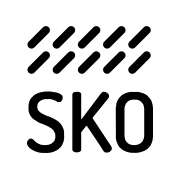
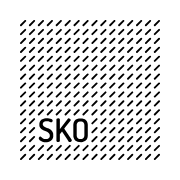
seo + intro

Changed region(s): [[0.1111, 0.1111, 0.8889, 0.8889]]

diff --git a/index.html b/index.html
@@ -1,16 +1,25 @@
 <!doctype html>
-<html lang="en">
+<html lang="bg">
 <head>
 <meta charset="utf-8">
 <meta name="viewport" content="width=device-width, initial-scale=1, viewport-fit=cover">
-<title>Sanya Ko Operations</title>
-<meta name="description" content="Sanya Ko Operations — architecture, graphic and web design. Sofia and Varna, Bulgaria.">
+<base href="/">
+<!-- SEO -->
+<!-- /SEO -->
+<link rel="icon" href="/favicon.svg" type="image/svg+xml">
+<link rel="apple-touch-icon" href="/apple-touch-icon.png">
 <link rel="preconnect" href="https://fonts.googleapis.com">
 <link rel="preconnect" href="https://fonts.gstatic.com" crossorigin>
 <link href="https://fonts.googleapis.com/css2?family=Sofia+Sans:wght@300..800&family=Sofia+Sans+Extra+Condensed:wght@500..800&display=swap" rel="stylesheet">
 <script>
   // Apply saved theme before paint to avoid a flash
   try { const t = localStorage.getItem("sko-theme"); if (t) document.documentElement.dataset.theme = t; } catch(e){}
+  // Intro: only on the home page, only on the first visit, never with reduced motion
+  try {
+    if (!location.pathname.replace(/\/(index(\.html)?)?$/, "") && !location.hash.replace(/^#\/?/, "") &&
+        !localStorage.getItem("sko-intro") &&
+        !matchMedia("(prefers-reduced-motion: reduce)").matches) document.documentElement.classList.add("intro");
+  } catch(e){}
 </script>
 <style>
 :root{
@@ -83,7 +92,7 @@ main{padding:0 var(--pad);min-height:60vh}
 .page-title{margin:0;font-family:var(--display);font-weight:700;font-size:clamp(52px,11vw,168px);line-height:.86;letter-spacing:-.025em;overflow-wrap:anywhere}
 /* Home page: the large logo replaces the "Projects" heading */
 .page-logo{margin:0;line-height:0}
-.page-logo svg{width:clamp(120px,15vw,210px);height:auto;display:block}
+.page-logo svg{width:clamp(96px,12vw,168px);height:auto;display:block}
 .sr-only{position:absolute;width:1px;height:1px;padding:0;margin:-1px;overflow:hidden;clip:rect(0 0 0 0);white-space:nowrap;border:0}
 /* Home page header: the studio name instead of the small logo */
 /* Home page: the small logo keeps its place but stays hidden, so the name never moves between pages */
@@ -237,14 +246,25 @@ body[data-page="home"] .brand-mark{visibility:hidden}
 .foot-cols a:hover{color:var(--muted)}
 .copy{margin-top:32px;font-size:13px;color:var(--muted)}
 
+/* Intro: the footer's dash grid over the whole screen, with the logo set into it on the same grid */
+#intro{display:none}
+.intro #intro{display:block;position:fixed;inset:0;z-index:100;background:var(--paper);color:var(--pattern);cursor:pointer;transition:opacity .4s ease}
+.intro body{overflow:hidden}
+.intro-pattern{position:absolute;inset:0;width:100%;height:100%;opacity:0;transition:opacity .4s ease}
+.intro-mark{position:absolute;line-height:0;color:var(--ink);opacity:0;transition:opacity .4s ease}
+.intro-mark svg{width:100%;height:100%;display:block}
+#intro.show .intro-pattern,#intro.show .intro-mark{opacity:1}
+#intro.out{opacity:0}
+
 @media (prefers-reduced-motion:reduce){*{transition:none!important}}
 </style>
 </head>
 <body>
+<div id="intro" aria-hidden="true"><svg class="intro-pattern" id="introPattern"></svg><span class="intro-mark" id="introMark"></span></div>
 
 <header class="site-header">
   <div class="bar">
-    <a class="brand" href="#/" id="brandLink">
+    <a class="brand" href="/" id="brandLink">
       <span class="brand-mark" id="brandMark"></span>
       <span class="brand-name" id="brandName"></span>
     </a>
@@ -471,6 +491,123 @@ const SITE = {
   ]
 };
 
+/* =========================================================
+   SEO: page titles, descriptions, share image and structured data.
+   build.mjs reads everything from "const SITE" down to SEO:END on every
+   Netlify deploy and writes a separate HTML file per page with these filled in,
+   so keep this block plain JavaScript (no document/window).
+   ========================================================= */
+const ORIGIN = "https://sko.one";
+const SEO = {
+  image: "/images/og.png",
+  founder: { name: "Саня Ковачева", alternateName: ["Sanya Kovacheva"], jobTitle: { bg: "Архитект", en: "Architect" } },
+  studioNames: ["SKO", "СКО", "SKO студио", "Студио SKO"],
+  home: {
+    bg: { title: "Саня Ковачева – архитект | SKO Sanya Ko Operations",
+          description: "SKO (Sanya Ko Operations, СКО) е студиото на архитект Саня Ковачева – архитектура, интериор, ландшафт, продуктов и графичен дизайн. София и Варна." },
+    en: { title: "Sanya Kovacheva – architect | SKO Sanya Ko Operations",
+          description: "SKO (Sanya Ko Operations) is the studio of architect Sanya Kovacheva – architecture, interiors, landscape, product and graphic design. Sofia and Varna, Bulgaria." },
+    h1: { bg: "SKO – Sanya Ko Operations, студио на архитект Саня Ковачева", en: "SKO – Sanya Ko Operations, studio of architect Sanya Kovacheva" }
+  },
+  pages: {
+    about: {
+      bg: { title: "За SKO – архитект Саня Ковачева | Sanya Ko Operations",
+            description: "Саня Ковачева е архитект и основател на студио SKO (Sanya Ko Operations) – инвестиционно проектиране, продуктов дизайн и визуална идентичност." },
+      en: { title: "About SKO – architect Sanya Kovacheva | Sanya Ko Operations",
+            description: "Sanya Kovacheva is an architect and the founder of SKO (Sanya Ko Operations) – investment design, product design and visual identity." } },
+    architecture: {
+      bg: { title: "Архитектура – SKO студио, архитект Саня Ковачева",
+            description: "Архитектурни, интериорни и ландшафтни проекти на SKO студио и архитект Саня Ковачева в София, Варна и чужбина." },
+      en: { title: "Architecture – SKO studio, architect Sanya Kovacheva",
+            description: "Architecture, interior and landscape projects by SKO studio and architect Sanya Kovacheva." } },
+    design: {
+      bg: { title: "Дизайн – SKO студио | Sanya Ko Operations",
+            description: "Графичен, уеб и продуктов дизайн от SKO (Sanya Ko Operations) – лога, визуална идентичност и уебсайтове." },
+      en: { title: "Design – SKO studio | Sanya Ko Operations",
+            description: "Graphic, web and product design by SKO (Sanya Ko Operations) – logos, visual identity and websites." } },
+    contacts: {
+      bg: { title: "Контакти – SKO студио, София | Sanya Ko Operations",
+            description: "Свържете се със SKO (Sanya Ko Operations) и архитект Саня Ковачева: бул. „Цар Борис III“ 171, София." },
+      en: { title: "Contacts – SKO studio, Sofia | Sanya Ko Operations",
+            description: "Get in touch with SKO (Sanya Ko Operations) and architect Sanya Kovacheva: 171 Tsar Boris III Blvd, Sofia." } }
+  },
+  projectSuffix: { bg: "SKO, Саня Ковачева", en: "SKO, Sanya Kovacheva" },
+  notFound: { bg: "Страницата не е намерена | SKO", en: "Page not found | SKO" }
+};
+
+/* Everything a page needs in its <head>, for a path such as "/", "/about" or "/project/fluxveil" */
+function seoFor(path, lang = "bg"){
+  const pick = v => (v && typeof v === "object" && !Array.isArray(v) && ("en" in v || "bg" in v)) ? (v[lang] ?? v.en) : v;
+  const plain = s => String(s || "").replace(/\[([^\]]+)\]\([^)]+\)/g, "$1").replace(/\s+/g, " ").trim();
+  const clip = s => s.length > 160 ? s.slice(0, 157).replace(/[\s,.;:–-]+[^\s]*$/, "") + "…" : s;
+  const abs = u => u ? ORIGIN + "/" + String(u).replace(/^\/+/, "") : "";
+  const [page = "", arg = ""] = String(path).replace(/\.html$/, "").replace(/\/index$/, "").replace(/^\/+|\/+$/g, "").split("/");
+
+  const addr = (SITE.contacts.address.bg || "").split(/,\s*(?=[^,]+$)/);
+  const studio = {
+    "@type": "ProfessionalService", "@id": ORIGIN + "/#studio",
+    name: SITE.name, alternateName: SEO.studioNames, url: ORIGIN + "/",
+    description: SEO.home.bg.description,
+    logo: abs("images/logo-512.png"), image: abs(SEO.image),
+    email: SITE.contacts.email, telephone: SITE.contacts.phone.replace(/\s/g, ""),
+    address: { "@type": "PostalAddress", streetAddress: addr[0], addressLocality: addr[1] || "София", addressCountry: "BG" },
+    areaServed: "BG", foundingDate: "2018",
+    founder: { "@id": ORIGIN + "/#founder" },
+    sameAs: SITE.social.map(s => s.url)
+  };
+  const founder = {
+    "@type": "Person", "@id": ORIGIN + "/#founder",
+    name: SEO.founder.name, alternateName: SEO.founder.alternateName, jobTitle: pick(SEO.founder.jobTitle),
+    url: ORIGIN + "/about", image: abs(SITE.about.portrait),
+    worksFor: { "@id": ORIGIN + "/#studio" },
+    sameAs: SITE.social.filter(s => /linkedin/i.test(s.url)).map(s => s.url)
+  };
+  const website = { "@type": "WebSite", "@id": ORIGIN + "/#website", url: ORIGIN + "/", name: SITE.name, alternateName: SEO.studioNames, inLanguage: "bg", publisher: { "@id": ORIGIN + "/#studio" } };
+
+  let m, p;
+  if (!page) m = { ...pick(SEO.home), path: "/" };
+  else if (SEO.pages[page]) m = { ...pick(SEO.pages[page]), path: "/" + page };
+  else if (page === "project" && (p = SITE.projects.find(x => x.slug === arg))) {
+    const cats = p.categories.map(c => pick(SITE.categories[c]) || c).join(", ");
+    const loc = pick(p.location) || "";
+    const fallback = lang === "bg"
+      ? `${p.title} – ${cats.toLowerCase()}${loc ? ", " + loc : ""}${p.year ? ", " + p.year + " г" : ""}. Проект на SKO студио и архитект Саня Ковачева.`
+      : `${p.title} – ${cats.toLowerCase()}${loc ? ", " + loc : ""}${p.year ? ", " + p.year : ""}. A project by SKO studio and architect Sanya Kovacheva.`;
+    const image = p.cover || p.thumb || (p.gallery || [])[0];
+    m = { title: `${p.title} – ${cats} | ${pick(SEO.projectSuffix)}`,
+          description: clip(plain((pick(p.description) || [])[0]) || fallback),
+          path: "/project/" + p.slug, image,
+          work: { "@type": "CreativeWork", "@id": ORIGIN + "/project/" + p.slug + "#work", name: p.title, url: ORIGIN + "/project/" + p.slug,
+                  genre: cats, image: image ? abs(image) : undefined, dateCreated: p.year || undefined,
+                  locationCreated: loc ? { "@type": "Place", name: loc } : undefined,
+                  creator: { "@id": ORIGIN + "/#studio" }, author: { "@id": ORIGIN + "/#founder" } } };
+  }
+  else return { title: pick(SEO.notFound), description: "", url: "", image: abs(SEO.image), noindex: true, lang };
+
+  return { title: m.title, description: m.description, url: ORIGIN + m.path, image: abs(m.image || SEO.image), lang,
+           jsonld: { "@context": "https://schema.org", "@graph": [website, studio, founder, ...(m.work ? [m.work] : [])] } };
+}
+
+/* The <head> tags for one page (they go between the two SEO comments in <head>) */
+function seoHead(m){
+  const e = s => String(s ?? "").replace(/[&<>"]/g, c => ({ "&": "&amp;", "<": "&lt;", ">": "&gt;", '"': "&quot;" }[c]));
+  return [
+    `<title>${e(m.title)}</title>`,
+    m.description && `<meta name="description" content="${e(m.description)}">`,
+    m.noindex ? `<meta name="robots" content="noindex">` : `<link rel="canonical" href="${e(m.url)}">`,
+    `<meta property="og:type" content="website">`,
+    `<meta property="og:site_name" content="${e(SITE.name)}">`,
+    `<meta property="og:locale" content="${m.lang === "en" ? "en_US" : "bg_BG"}">`,
+    `<meta property="og:title" content="${e(m.title)}">`,
+    m.description && `<meta property="og:description" content="${e(m.description)}">`,
+    m.url && `<meta property="og:url" content="${e(m.url)}">`,
+    `<meta property="og:image" content="${e(m.image)}">`,
+    `<meta name="twitter:card" content="summary_large_image">`,
+    m.jsonld && `<script type="application/ld+json">${JSON.stringify(m.jsonld).replace(/</g, "\\u003c")}<\/script>`
+  ].filter(Boolean).join("\n");
+}
+/* SEO:END */
+
 /* SKO logo, vectorized; uses currentColor so it follows light/dark mode */
 const LOGO = `<svg xmlns="http://www.w3.org/2000/svg" viewBox="0 0 635 635"><path d="M4.2 23.8l19.6-19.6M44.7 23.8l19.6-19.6M85.1 23.8l19.6-19.6M125.6 23.8l19.6-19.6M166.1 23.8l19.6-19.6M206.5 23.8l19.6-19.6M247.0 23.8l19.6-19.6M287.5 23.8l19.6-19.6M328.0 23.8l19.6-19.6M368.4 23.8l19.6-19.6M408.9 23.8l19.6-19.6M449.4 23.8l19.6-19.6M489.8 23.8l19.6-19.6M530.3 23.8l19.6-19.6M570.8 23.8l19.6-19.6M611.2 23.8l19.6-19.6M4.2 64.3l19.6-19.6M44.7 64.3l19.6-19.6M85.1 64.3l19.6-19.6M125.6 64.3l19.6-19.6M166.1 64.3l19.6-19.6M206.5 64.3l19.6-19.6M247.0 64.3l19.6-19.6M287.5 64.3l19.6-19.6M328.0 64.3l19.6-19.6M368.4 64.3l19.6-19.6M408.9 64.3l19.6-19.6M449.4 64.3l19.6-19.6M489.8 64.3l19.6-19.6M530.3 64.3l19.6-19.6M570.8 64.3l19.6-19.6M611.2 64.3l19.6-19.6M4.2 104.7l19.6-19.6M44.7 104.7l19.6-19.6M85.1 104.7l19.6-19.6M125.6 104.7l19.6-19.6M166.1 104.7l19.6-19.6M206.5 104.7l19.6-19.6M247.0 104.7l19.6-19.6M287.5 104.7l19.6-19.6M328.0 104.7l19.6-19.6M368.4 104.7l19.6-19.6M408.9 104.7l19.6-19.6M449.4 104.7l19.6-19.6M489.8 104.7l19.6-19.6M530.3 104.7l19.6-19.6M570.8 104.7l19.6-19.6M611.2 104.7l19.6-19.6M4.2 145.2l19.6-19.6M44.7 145.2l19.6-19.6M85.1 145.2l19.6-19.6M125.6 145.2l19.6-19.6M166.1 145.2l19.6-19.6M206.5 145.2l19.6-19.6M247.0 145.2l19.6-19.6M287.5 145.2l19.6-19.6M328.0 145.2l19.6-19.6M368.4 145.2l19.6-19.6M408.9 145.2l19.6-19.6M449.4 145.2l19.6-19.6M489.8 145.2l19.6-19.6M530.3 145.2l19.6-19.6M570.8 145.2l19.6-19.6M611.2 145.2l19.6-19.6M4.2 185.7l19.6-19.6M44.7 185.7l19.6-19.6M85.1 185.7l19.6-19.6M125.6 185.7l19.6-19.6M166.1 185.7l19.6-19.6M206.5 185.7l19.6-19.6M247.0 185.7l19.6-19.6M287.5 185.7l19.6-19.6M328.0 185.7l19.6-19.6M368.4 185.7l19.6-19.6M408.9 185.7l19.6-19.6M449.4 185.7l19.6-19.6M489.8 185.7l19.6-19.6M530.3 185.7l19.6-19.6M570.8 185.7l19.6-19.6M611.2 185.7l19.6-19.6M4.2 226.2l19.6-19.6M44.7 226.2l19.6-19.6M85.1 226.2l19.6-19.6M125.6 226.2l19.6-19.6M166.1 226.2l19.6-19.6M206.5 226.2l19.6-19.6M247.0 226.2l19.6-19.6M287.5 226.2l19.6-19.6M328.0 226.2l19.6-19.6M368.4 226.2l19.6-19.6M408.9 226.2l19.6-19.6M449.4 226.2l19.6-19.6M489.8 226.2l19.6-19.6M530.3 226.2l19.6-19.6M570.8 226.2l19.6-19.6M611.2 226.2l19.6-19.6M4.2 266.6l19.6-19.6M44.7 266.6l19.6-19.6M85.1 266.6l19.6-19.6M125.6 266.6l19.6-19.6M166.1 266.6l19.6-19.6M206.5 266.6l19.6-19.6M247.0 266.6l19.6-19.6M287.5 266.6l19.6-19.6M328.0 266.6l19.6-19.6M368.4 266.6l19.6-19.6M408.9 266.6l19.6-19.6M449.4 266.6l19.6-19.6M489.8 266.6l19.6-19.6M530.3 266.6l19.6-19.6M570.8 266.6l19.6-19.6M611.2 266.6l19.6-19.6M4.2 307.1l19.6-19.6M44.7 307.1l19.6-19.6M85.1 307.1l19.6-19.6M125.6 307.1l19.6-19.6M166.1 307.1l19.6-19.6M206.5 307.1l19.6-19.6M247.0 307.1l19.6-19.6M287.5 307.1l19.6-19.6M328.0 307.1l19.6-19.6M368.4 307.1l19.6-19.6M408.9 307.1l19.6-19.6M449.4 307.1l19.6-19.6M489.8 307.1l19.6-19.6M530.3 307.1l19.6-19.6M570.8 307.1l19.6-19.6M611.2 307.1l19.6-19.6M4.2 347.6l19.6-19.6M44.7 347.6l19.6-19.6M85.1 347.6l19.6-19.6M125.6 347.6l19.6-19.6M166.1 347.6l19.6-19.6M206.5 347.6l19.6-19.6M247.0 347.6l19.6-19.6M287.5 347.6l19.6-19.6M328.0 347.6l19.6-19.6M368.4 347.6l19.6-19.6M408.9 347.6l19.6-19.6M449.4 347.6l19.6-19.6M489.8 347.6l19.6-19.6M530.3 347.6l19.6-19.6M570.8 347.6l19.6-19.6M611.2 347.6l19.6-19.6M4.2 388.0l19.6-19.6M44.7 388.0l19.6-19.6M85.1 388.0l19.6-19.6M125.6 388.0l19.6-19.6M166.1 388.0l19.6-19.6M206.5 388.0l19.6-19.6M247.0 388.0l19.6-19.6M287.5 388.0l19.6-19.6M328.0 388.0l19.6-19.6M368.4 388.0l19.6-19.6M408.9 388.0l19.6-19.6M449.4 388.0l19.6-19.6M489.8 388.0l19.6-19.6M530.3 388.0l19.6-19.6M570.8 388.0l19.6-19.6M611.2 388.0l19.6-19.6M4.2 428.5l19.6-19.6M44.7 428.5l19.6-19.6M85.1 428.5l19.6-19.6M125.6 428.5l19.6-19.6M166.1 428.5l19.6-19.6M206.5 428.5l19.6-19.6M247.0 428.5l19.6-19.6M287.5 428.5l19.6-19.6M328.0 428.5l19.6-19.6M368.4 428.5l19.6-19.6M408.9 428.5l19.6-19.6M449.4 428.5l19.6-19.6M489.8 428.5l19.6-19.6M530.3 428.5l19.6-19.6M570.8 428.5l19.6-19.6M611.2 428.5l19.6-19.6M4.2 469.0l19.6-19.6M44.7 469.0l19.6-19.6M328.0 469.0l19.6-19.6M368.4 469.0l19.6-19.6M408.9 469.0l19.6-19.6M449.4 469.0l19.6-19.6M489.8 469.0l19.6-19.6M530.3 469.0l19.6-19.6M570.8 469.0l19.6-19.6M611.2 469.0l19.6-19.6M4.2 509.4l19.6-19.6M44.7 509.4l19.6-19.6M328.0 509.4l19.6-19.6M368.4 509.4l19.6-19.6M408.9 509.4l19.6-19.6M449.4 509.4l19.6-19.6M489.8 509.4l19.6-19.6M530.3 509.4l19.6-19.6M570.8 509.4l19.6-19.6M611.2 509.4l19.6-19.6M4.2 549.9l19.6-19.6M44.7 549.9l19.6-19.6M328.0 549.9l19.6-19.6M368.4 549.9l19.6-19.6M408.9 549.9l19.6-19.6M449.4 549.9l19.6-19.6M489.8 549.9l19.6-19.6M530.3 549.9l19.6-19.6M570.8 549.9l19.6-19.6M611.2 549.9l19.6-19.6M4.2 590.4l19.6-19.6M44.7 590.4l19.6-19.6M85.1 590.4l19.6-19.6M125.6 590.4l19.6-19.6M166.1 590.4l19.6-19.6M206.5 590.4l19.6-19.6M247.0 590.4l19.6-19.6M287.5 590.4l19.6-19.6M328.0 590.4l19.6-19.6M368.4 590.4l19.6-19.6M408.9 590.4l19.6-19.6M449.4 590.4l19.6-19.6M489.8 590.4l19.6-19.6M530.3 590.4l19.6-19.6M570.8 590.4l19.6-19.6M611.2 590.4l19.6-19.6M4.2 630.8l19.6-19.6M44.7 630.8l19.6-19.6M85.1 630.8l19.6-19.6M125.6 630.8l19.6-19.6M166.1 630.8l19.6-19.6M206.5 630.8l19.6-19.6M247.0 630.8l19.6-19.6M287.5 630.8l19.6-19.6M328.0 630.8l19.6-19.6M368.4 630.8l19.6-19.6M408.9 630.8l19.6-19.6M449.4 630.8l19.6-19.6M489.8 630.8l19.6-19.6M530.3 630.8l19.6-19.6M570.8 630.8l19.6-19.6M611.2 630.8l19.6-19.6" fill="none" stroke="currentColor" stroke-width="8.4" stroke-linecap="round"/><path d="M266.8 446.5 L259.2 448.5 L253.5 451.5 L251.0 453.5 L247.8 457.0 L245.0 461.2 L243.0 466.8 L241.8 475.5 L242.0 528.2 L243.0 533.5 L246.2 541.0 L248.0 543.5 L251.8 547.2 L254.5 549.2 L261.2 552.2 L268.2 553.8 L278.0 554.0 L284.0 553.2 L292.2 550.5 L298.0 546.8 L301.8 542.8 L303.8 539.8 L305.8 535.0 L306.8 531.2 L307.5 525.2 L307.5 474.8 L306.8 469.0 L304.8 462.5 L302.5 458.5 L297.0 452.5 L294.0 450.5 L290.2 448.8 L282.0 446.5ZM271.5 460.0 L279.5 460.2 L282.5 461.2 L286.0 463.2 L290.0 468.0 L291.0 470.5 L292.0 476.0 L292.0 524.2 L291.0 529.5 L288.8 534.0 L286.0 536.8 L281.5 539.2 L277.0 540.2 L271.8 540.2 L268.0 539.5 L265.5 538.5 L263.0 536.8 L260.8 534.5 L258.8 531.5 L257.2 525.0 L257.2 475.2 L257.8 471.8 L259.8 467.0 L263.5 463.0 L266.5 461.2ZM166.8 447.8 L165.2 450.2 L165.2 548.8 L166.0 550.5 L167.5 551.8 L169.8 552.8 L173.8 553.2 L178.0 552.2 L180.8 549.8 L180.8 517.8 L188.8 507.5 L190.5 506.0 L214.0 541.0 L220.2 551.0 L222.2 552.8 L224.5 553.5 L228.8 553.2 L231.2 552.0 L233.5 550.0 L234.8 547.8 L234.8 544.8 L233.8 542.5 L201.0 493.0 L201.5 491.2 L228.8 457.5 L229.8 455.8 L230.0 454.2 L229.8 452.2 L228.8 450.2 L227.0 448.5 L223.8 446.5 L219.5 446.2 L217.8 447.0 L215.2 449.8 L181.2 494.8 L180.8 494.2 L180.8 449.2 L179.2 447.5 L175.5 446.2 L169.2 446.5ZM117.0 445.8 L110.5 446.8 L104.5 448.5 L98.2 451.8 L92.8 457.0 L90.0 461.2 L88.0 468.2 L87.8 476.2 L88.2 480.8 L89.0 483.8 L91.0 488.0 L93.5 491.5 L96.5 494.5 L105.5 500.2 L120.2 506.2 L124.5 508.5 L128.8 511.2 L132.0 514.5 L135.0 520.2 L135.2 527.2 L134.0 531.8 L132.2 534.2 L128.5 537.5 L124.0 539.5 L119.8 540.2 L114.0 540.2 L109.2 539.5 L107.5 538.5 L106.5 538.5 L101.5 535.5 L95.0 529.5 L93.2 528.8 L90.5 528.8 L88.8 529.8 L86.0 533.0 L85.2 535.0 L85.2 538.8 L87.5 543.0 L90.8 546.2 L93.5 548.2 L99.5 551.2 L104.8 553.0 L110.2 554.0 L122.0 554.2 L128.5 553.2 L134.2 551.2 L140.0 548.0 L144.8 543.5 L146.8 540.8 L149.8 533.8 L150.8 528.5 L150.5 516.0 L149.8 512.5 L147.2 506.8 L144.8 503.0 L141.0 499.2 L136.2 495.8 L132.2 493.5 L131.5 493.5 L130.2 492.5 L129.5 492.5 L128.2 491.5 L125.0 490.5 L123.5 489.5 L122.5 489.5 L117.5 487.5 L111.0 484.2 L108.8 482.8 L105.0 479.0 L103.8 476.2 L103.2 473.5 L103.8 468.2 L104.8 466.0 L107.8 462.8 L111.8 460.5 L116.5 459.2 L124.5 459.0 L128.8 459.5 L136.0 462.2 L139.2 464.2 L144.2 464.2 L146.5 462.0 L147.8 459.5 L148.2 455.0 L146.8 452.2 L143.0 449.5 L137.5 447.5 L126.5 445.8Z" fill="currentColor" fill-rule="evenodd"/></svg>`;
 
@@ -493,7 +630,7 @@ const store = {
   get(k){ try { return localStorage.getItem(k); } catch(e){ return null; } },
   set(k,v){ try { localStorage.setItem(k,v); } catch(e){} }
 };
-let lang = store.get("sko-lang") === "bg" ? "bg" : "en";
+let lang = store.get("sko-lang") === "en" ? "en" : "bg";
 const T = k => UI[lang][k];
 const L = v => (v && typeof v === "object" && !Array.isArray(v) && ("en" in v || "bg" in v)) ? (v[lang] ?? v.en) : v;
 const cat = c => L(SITE.categories[c]) || c;
@@ -518,7 +655,7 @@ function contextList(ctx){
   const c = Object.keys(SITE.categories).find(k => slugify(k) === ctx);
   return c ? SITE.projects.filter(p => p.categories.includes(c)) : SITE.projects;
 }
-const projectHref = (slug, ctx) => `#/project/${esc(slug)}${ctx ? "/" + esc(ctx) : ""}`;
+const projectHref = (slug, ctx) => `/project/${esc(slug)}${ctx ? "?in=" + esc(ctx) : ""}`;
 
 function card(p, ctx){
   return `<li class="card"><a href="${projectHref(p.slug, ctx)}">
@@ -538,7 +675,7 @@ function listingPage(title, list, ctx){
        </div>` : "";
   return `
     <div class="page-head">
-      ${title ? `<h1 class="page-title">${esc(title)}</h1>` : `<h1 class="page-logo"><span class="sr-only">${esc(SITE.name)}</span>${LOGO}</h1>`}
+      ${title ? `<h1 class="page-title">${esc(title)}</h1>` : `<h1 class="page-logo"><span class="sr-only">${esc(L(SEO.home.h1))}</span>${LOGO}</h1>`}
       ${filters}
     </div>
     <ul class="grid" id="grid">${list.map(p => card(p, ctx)).join("")}</ul>`;
@@ -640,7 +777,7 @@ function projectPage(slug, ctx){
   let list = contextList(ctx);
   if (!list.some(p => p.slug === slug)) { list = SITE.projects; ctx = ""; }
   const i = list.findIndex(p => p.slug === slug);
-  if (i < 0) return `<p class="empty">${T("notFoundProject")} <a href="#/"><u>${T("seeAll")}</u></a></p>`;
+  if (i < 0) return `<p class="empty">${T("notFoundProject")} <a href="/"><u>${T("seeAll")}</u></a></p>`;
   const p = list[i];
   const n = list.length;
   const prev = i > 0 ? list[i - 1] : null;      // first project: no "previous"
@@ -697,8 +834,10 @@ const navLabel = route => L((SITE.nav.find(n => n.route === route) || {}).label)
 
 function render(keepScroll){
   // Old "graphic-design" links now point to the Design section
-  if (/graphic-design/.test(location.hash)) { location.replace(location.hash.replace("graphic-design", "design")); return; }
-  const [page, arg, ctx] = (location.hash.replace(/^#\/?/, "") || "").split("/");
+  if (/graphic-design/.test(location.pathname + location.search))
+    history.replaceState(null, "", (location.pathname + location.search).replace("graphic-design", "design"));
+  const [page = "", arg = ""] = routePath().split("/");
+  const ctx = new URLSearchParams(location.search).get("in") || "";
   const app = $("#app");
   let html, after;
 
@@ -710,7 +849,7 @@ function render(keepScroll){
   else if (page === "project") { html = projectPage(arg, ctx); after = bindStrip; }
   else if (page === "about") html = aboutPage();
   else if (page === "contacts") html = contactsPage();
-  else html = `<p class="empty">${T("notFoundPage")} <a href="#/"><u>${T("seeAll")}</u></a></p>`;
+  else html = `<p class="empty">${T("notFoundPage")} <a href="/"><u>${T("seeAll")}</u></a></p>`;
 
   document.body.dataset.page = page || "home";
   app.innerHTML = html;
@@ -720,8 +859,7 @@ function render(keepScroll){
     const active = page === "project" && SITE.sections[ctx] && contextList(ctx).some(p => p.slug === arg) ? ctx : page;
     if (a.dataset.route === active) a.setAttribute("aria-current","page"); else a.removeAttribute("aria-current");
   });
-  const t = page === "project" ? (SITE.projects.find(p=>p.slug===arg)||{}).title : navLabel(page);
-  document.title = t ? `${t} — ${SITE.name}` : SITE.name;
+  applySeo();
   closeMenu();
   if (!keepScroll) window.scrollTo(0,0);
 }
@@ -733,8 +871,8 @@ function chrome(){
   $("#brandName").textContent = SITE.name;
   $("#brandLink").setAttribute("aria-label", T("home"));
   $("#nav").setAttribute("aria-label", T("main"));
-  $("#nav").innerHTML = SITE.nav.map(n => `<a href="#/${esc(n.route)}" data-route="${esc(n.route)}">${esc(L(n.label))}</a>`).join("");
-  $("#footPages").innerHTML = SITE.nav.map(n => `<li><a href="#/${esc(n.route)}">${esc(L(n.label))}</a></li>`).join("");
+  $("#nav").innerHTML = SITE.nav.map(n => `<a href="/${esc(n.route)}" data-route="${esc(n.route)}">${esc(L(n.label))}</a>`).join("");
+  $("#footPages").innerHTML = SITE.nav.map(n => `<li><a href="/${esc(n.route)}">${esc(L(n.label))}</a></li>`).join("");
   $("#footSocial").innerHTML = SITE.social.map(s => `<li><a href="${esc(s.url)}" target="_blank" rel="noopener">${esc(s.label)}</a></li>`).join("");
   $("#footLocation").innerHTML = L(SITE.location).map(esc).join("<br>");
   $("#hLocation").textContent = T("location");
@@ -798,7 +936,7 @@ function drawFooterPattern(){
   const blocks = [...foot.querySelectorAll(".foot-cols > div, .copy")];
   blocks.forEach(el => el.style.transform = "");
   const W = foot.clientWidth, H = foot.clientHeight;
-  const P = W < 600 ? 12 : 14, k = P / 40.47, d = 19.6 * k, sw = 8.4 * k, o = 4.2 * k;
+  const P = W < 600 ? 9.6 : 11.2, k = P / 40.47, d = 19.6 * k, sw = 8.4 * k, o = 4.2 * k;
   const fr = foot.getBoundingClientRect(), gap = P * 0.9;
   // grid centred in the footer so the outer margins are even
   const ox = (W - (Math.floor((W - 2 * o) / P) * P + d)) / 2 - o, oy = (H - (Math.floor((H - 2 * o) / P) * P + d)) / 2 - o;
@@ -839,9 +977,84 @@ function drawFooterPattern(){
 if (window.ResizeObserver) new ResizeObserver(drawFooterPattern).observe(document.querySelector(".site-footer"));
 document.fonts && document.fonts.ready.then(drawFooterPattern);
 
+/* Intro: the logo is drawn at the pattern's scale and placed on its grid, so its dashes
+   continue the pattern in a darker colour */
+function drawIntro(){
+  const box = $("#intro"), svg = $("#introPattern"), mark = $("#introMark");
+  const W = box.clientWidth, H = box.clientHeight;
+  // same size as the large logo on the home page: clamp(96px, 12vw, 168px)
+  const S = Math.min(168, Math.max(96, innerWidth * 0.12)), k = S / 635, P = 40.47 * k;
+  const d = 19.6 * k, sw = 8.4 * k, o = 4.2 * k;
+  const Lx = (W - S) / 2, Ly = (H - S) / 2;
+  const ox = Lx - Math.ceil(Lx / P) * P, oy = Ly - Math.ceil(Ly / P) * P;
+  const c0 = Math.round((Lx - ox) / P), r0 = Math.round((Ly - oy) / P);
+  const cols = Math.ceil((W - ox) / P) + 1, rows = Math.ceil((H - oy) / P) + 1;
+  let path = "";
+  for (let r = 0; r < rows; r++) for (let c = 0; c < cols; c++) {
+    if (c >= c0 && c < c0 + 16 && r >= r0 && r < r0 + 16) continue;
+    const x = ox + c * P + o, y = oy + r * P + o;
+    if (x < 0 || y < 0 || x + d > W || y + d > H) continue;
+    path += `M${x.toFixed(1)} ${(y + d).toFixed(1)}l${d.toFixed(1)}-${d.toFixed(1)}`;
+  }
+  svg.setAttribute("viewBox", `0 0 ${W} ${H}`);
+  svg.innerHTML = `<path d="${path}" fill="none" stroke="currentColor" stroke-width="${sw.toFixed(2)}" stroke-linecap="round"/>`;
+  if (!mark.firstChild) mark.innerHTML = LOGO;
+  Object.assign(mark.style, { left: `${ox + c0 * P}px`, top: `${oy + r0 * P}px`, width: `${S}px`, height: `${S}px` });
+}
+function runIntro(){
+  const root = document.documentElement, box = $("#intro");
+  if (!root.classList.contains("intro")) { box.remove(); return; }
+  store.set("sko-intro", "1");
+  drawIntro();
+  addEventListener("resize", drawIntro);
+  requestAnimationFrame(() => requestAnimationFrame(() => box.classList.add("show")));
+  let done = false;
+  const end = () => {
+    if (done) return; done = true;
+    box.classList.add("out");
+    setTimeout(() => { root.classList.remove("intro"); box.remove(); removeEventListener("resize", drawIntro); }, 400);
+  };
+  const timer = setTimeout(end, 1600);   // 0.4 s fade in + 1.2 s hold + 0.4 s fade out = 2 s
+  box.addEventListener("click", () => { clearTimeout(timer); end(); });
+  addEventListener("keydown", () => { clearTimeout(timer); end(); }, { once: true });
+}
+
+/* ============================ routing ============================
+   Every page has its own address (sko.one/about, sko.one/project/fluxveil).
+   Clicks on links inside the site switch pages without reloading. */
+const routePath = () => location.pathname.replace(/\.html$/, "").replace(/\/index$/, "").replace(/^\/+|\/+$/g, "");
+
+// Old links in the form sko.one/#/project/fluxveil/architecture keep working
+if (location.hash.startsWith("#/")) {
+  const [pg = "", a = "", c = ""] = location.hash.slice(2).split("/");
+  history.replaceState(null, "", "/" + [pg, a].filter(Boolean).join("/") + (c ? "?in=" + c : ""));
+}
+
+document.addEventListener("click", e => {
+  const a = e.target.closest("a[href]");
+  if (!a || a.target || a.hasAttribute("download") || e.defaultPrevented || e.button || e.metaKey || e.ctrlKey || e.shiftKey || e.altKey) return;
+  const u = new URL(a.href, location.href);
+  if (u.origin !== location.origin) return;
+  e.preventDefault();
+  if (u.pathname + u.search !== location.pathname + location.search) history.pushState(null, "", u.pathname + u.search);
+  render();
+});
+window.addEventListener("popstate", () => render());
+
+/* Keep the <head> (title, description, share tags, structured data) in step with the page */
+function applySeo(){
+  const nodes = [...document.head.childNodes];
+  const a = nodes.findIndex(n => n.nodeType === 8 && n.data.trim() === "SEO");
+  const b = nodes.findIndex(n => n.nodeType === 8 && n.data.trim() === "/SEO");
+  if (a < 0 || b < a) return;
+  nodes.slice(a + 1, b).forEach(n => n.remove());
+  const range = document.createRange(); range.selectNode(document.head);
+  document.head.insertBefore(range.createContextualFragment(seoHead(seoFor(location.pathname, lang))), nodes[b]);
+}
+
 chrome();
-window.addEventListener("hashchange", () => render());
 render();
+runIntro();
 </script>
 </body>
 </html>
